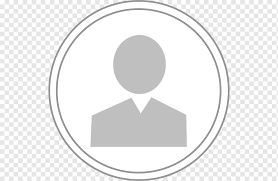
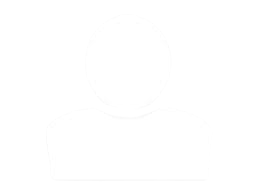
falta organizar os parágrafos

diff --git a/Home.html b/Home.html
@@ -47,24 +47,20 @@
 				Como começar
 			</h1>
 		<div class="img-começar">
-
-		 <div class="usuario">
-			<img src="" alt="" height="100" width="100">
-			<p>Lorem ipsum dolor sit amet, consectetur adipisicing elit. Totam numquam explicabo eos repellendus.</p>
-		 </div>
-		<div class="whatsapp">
-			<img src="whatsapp.png" alt=""width="100" height="100">
-			<p>Lorem ipsum dolor sit amet consectetur adipisicing elit. Repudiandae repellat adipisci recusandae? </p>
+           <div class="usuario">
+			<img src="usuario-branco-remove.png" alt="" height="100" width="120">
+			<p>Encontre um interprete</p>
 		</div>
-				
-		<div class="">
-          <p>Lorem ipsum dolor, sit amet consectetur adipisicing elit. Necessitatibus vero sint sed at, molestias placeat maxime </p>
+		   <div class="whatsapp">
+			<img src="whatsapp.png" alt=""width="90" height="90">
+			<p>Click no botão do whatsapp no perfil</p>
 		</div>
-
-	   </div>
-		
-	</div>
-		
+		   <div class="calendario"> 
+			<img src="calendario.png" alt="" height="130" width="130">
+			<p>Combinem junstos horários e datas</p>
+          </div>
+        </div>
+	  </div>
 	</section>
 	<aside>
 		<div class="informações">

diff --git a/Style_home.css b/Style_home.css
@@ -107,26 +107,32 @@ nav ul li a:hover {
     transform: scale(0.9);
 }
 .como-comecar{
-    color: white;
-    height: 300px;
+    
+    height: 350px;
     width: 100%;
     text-align: center;
     padding-top: 25px;
     font-family: 'Comfortaa', cursive;
     background-color: #004AAD;
 }
-.img-começar{
-    display: flex;
-    align-items: center;
-    justify-content: center;
-    flex-direction: row;
-    padding-top: 35px;
+.como-comecar > h1{
+    color: white;
 }
-
+.como-comecar p >{
+    color: black;
+}
+.img-começar{
+    height: 200px;
+    width: 1000px;
+    display: flex;
+    font-size: 16px;
+    align-items: center;
+    justify-content: space-between;
+    flex-direction: row;
+}
 aside{
     width: auto;
 }
-
 .informações{
     
     display: flex;
